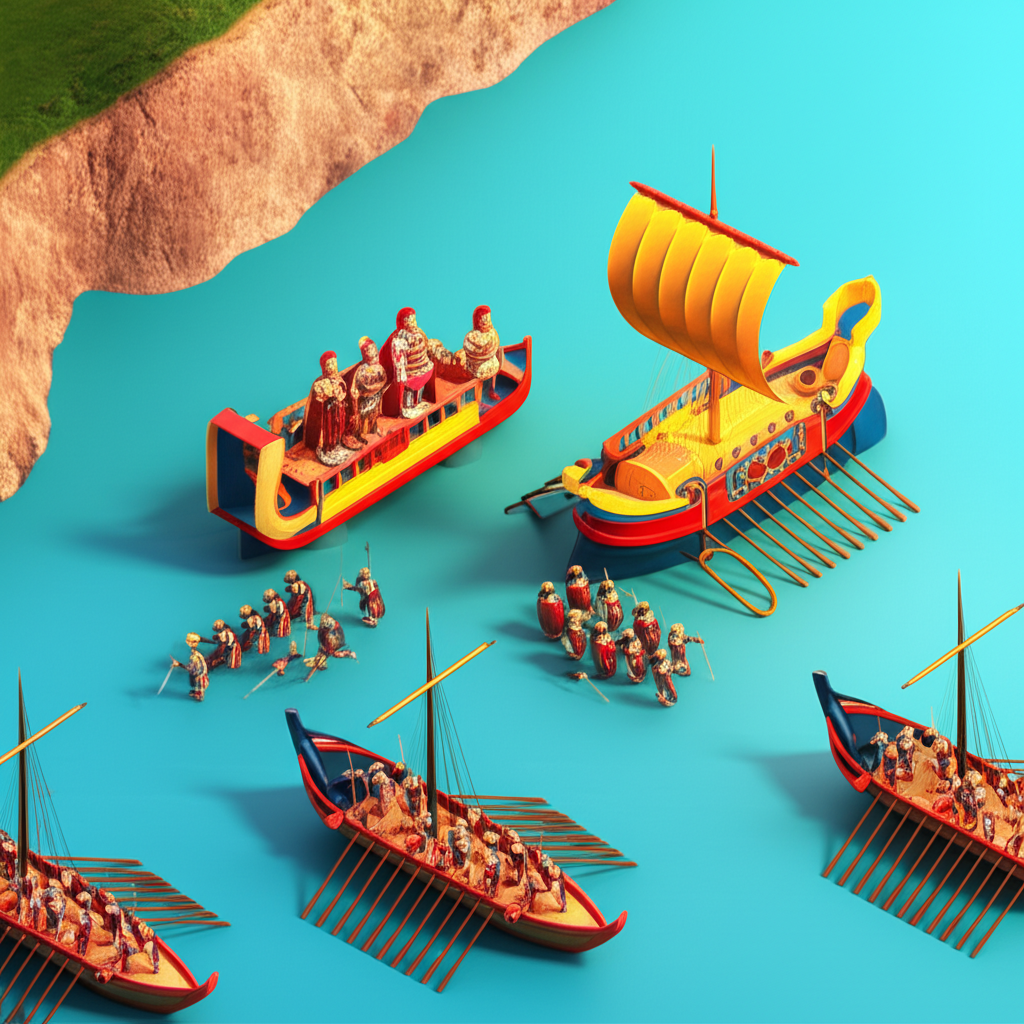
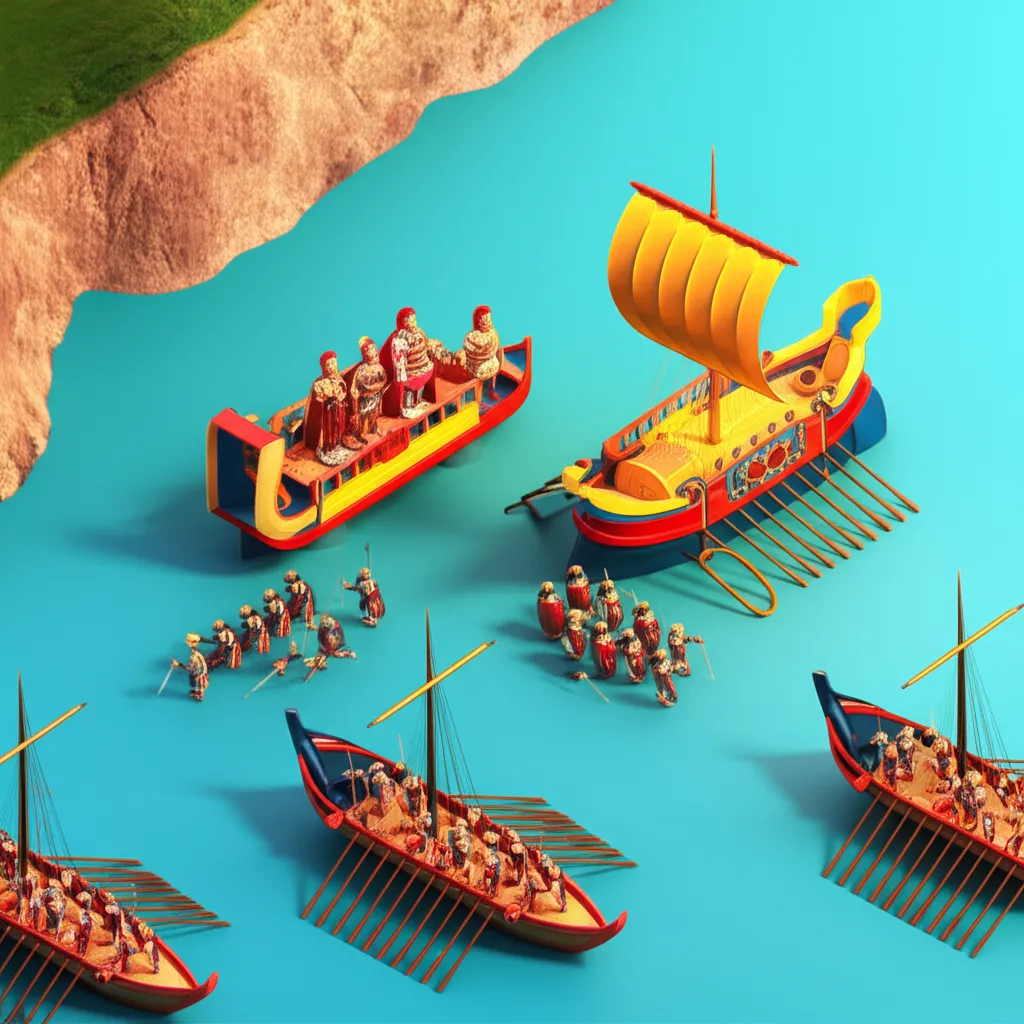
Optimize battle images for faster loading
- Convert new battle images from PNG to real WebP (1.5MB -> ~100KB each)
- Preload images via Image() before setting state to avoid flicker
- Set loading="eager" and fetchPriority="high" on battle images

diff --git a/src/App.tsx b/src/App.tsx
@@ -85,7 +85,10 @@ function App() {
   useEffect(() => {
     if (state.currentBattle && state.gameStatus === 'playing' && !state.imageUrl) {
       const imageUrl = getImageForBattle(state.currentBattle.id);
-      actions.setImage(imageUrl);
+      // Preload the image before showing it
+      const img = new Image();
+      img.onload = () => actions.setImage(imageUrl);
+      img.src = imageUrl;
     }
   }, [state.currentBattle, state.gameStatus, state.imageUrl, actions, getImageForBattle]);
 

diff --git a/src/components/game/BattleImage.tsx b/src/components/game/BattleImage.tsx
@@ -54,7 +54,8 @@ export function BattleImage({ imageUrl, isLoading, battleName, battleYear }: Bat
                   animate={{ opacity: 1, scale: 1 }}
                   exit={{ opacity: 0 }}
                   transition={{ duration: 0.5 }}
-                  loading="lazy"
+                  loading="eager"
+                  fetchPriority="high"
                   decoding="async"
                 />
               ) : (
